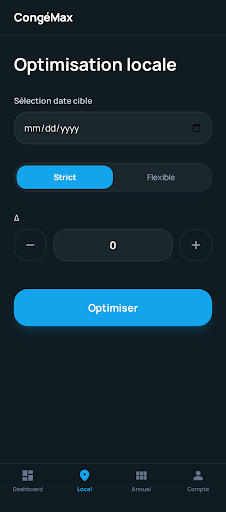
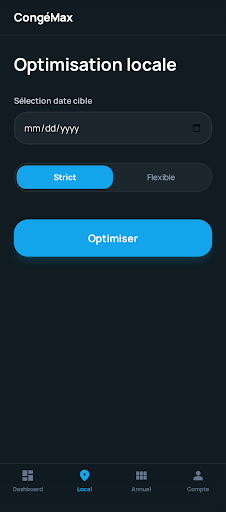
ux: local input fix delta conditional [PLAN:CMX-M-009-B2]

Changed region(s): [[0.0619, 0.4062, 0.9602, 0.5312], [0.0619, 0.5625, 0.9602, 0.6562]]

diff --git a/CODEX/UX/exports/CMX-M-009-B_local-input.html b/CODEX/UX/exports/CMX-M-009-B_local-input.html
@@ -40,6 +40,11 @@
         }
     </style>
 <style>
+        body {
+            min-height: max(884px, 100dvh);
+        }
+    </style>
+<style>
     body {
       min-height: max(884px, 100dvh);
     }
@@ -66,20 +71,6 @@
 <button class="py-2.5 px-4 rounded-lg text-sm font-medium text-slate-500 dark:text-slate-400">
                 Flexible
             </button>
-</div>
-<div class="space-y-2">
-<label class="text-sm font-semibold text-slate-700 dark:text-slate-300">Δ</label>
-<div class="flex items-center gap-3">
-<button class="w-14 h-14 rounded-xl border border-slate-200 dark:border-white/10 flex items-center justify-center text-slate-400">
-<span class="material-symbols-outlined">remove</span>
-</button>
-<div class="flex-1 h-14 bg-white dark:bg-white/5 border border-slate-200 dark:border-white/10 rounded-xl flex items-center justify-center font-bold text-lg">
-                    0
-                </div>
-<button class="w-14 h-14 rounded-xl border border-slate-200 dark:border-white/10 flex items-center justify-center text-slate-400">
-<span class="material-symbols-outlined">add</span>
-</button>
-</div>
 </div>
 <div class="pt-4">
 <button class="w-full h-16 bg-primary text-white rounded-xl font-bold text-lg shadow-lg shadow-primary/20 active:scale-[0.98] transition-all">

diff --git a/CODEX/UX/UX_SKILLS_EVIDENCE.md b/CODEX/UX/UX_SKILLS_EVIDENCE.md
@@ -142,3 +142,24 @@
   - delta block: Δ
   - optimize button: Optimiser
   - bottom nav: Dashboard, Local (actif), Annuel, Compte
+
+## CMX-M-009-B2 — Delta Conditional Fix (Architecture B)
+- screen_id: Screen_09_Local_Input
+- dep: CODEX/UX/DEP/Screen_09_Local_Input.dep.yaml (inchangé)
+- design_spec: CODEX/UX/DEP/Screen_09_Local_Input.design_spec.json
+- gate_report: CODEX/UX/DEP/Screen_09_Local_Input.gate_report.md
+- exports:
+  - CODEX/UX/exports/CMX-M-009-B_local-input.html
+  - CODEX/UX/exports/CMX-M-009-B_local-input.png
+- stitch_stage_1:
+  - project: projects/4250423157287284664
+  - session: 13726037778003081270
+  - output: DESIGN_SPEC JSON ONLY avec `visibility` sur Delta_Block
+- stitch_stage_2:
+  - project: projects/4250423157287284664
+  - session: 14563570868016470286
+  - screen: projects/4250423157287284664/screens/da686720bd854386b5e76998e55d3976
+- corrective_rule:
+  - Delta_Block visible uniquement si mode==Flexible
+  - preuve DESIGN_SPEC: visibility.when=mode + visibility.equals=Flexible
+- gate_verdict: PASS

diff --git a/CODEX/UX/TOKEN_CONFORMANCE_GATE.md b/CODEX/UX/TOKEN_CONFORMANCE_GATE.md
@@ -28,6 +28,11 @@ Un DESIGN\_SPEC est PASS uniquement si :
 
 10\. Aucune propriété JSON supplémentaire.
 
+11\. Pour Screen\_09\_Local\_Input : Delta\_Block MUST be conditional on mode==Flexible.
+Preuve requise dans DESIGN\_SPEC :
+- soit `visibility` explicite sur le composant Delta (`when: mode`, `equals: Flexible`)
+- soit absence du Delta\_Block en mode Strict documentée dans le DESIGN\_SPEC.
+
 
 
 Si un seul critère échoue :

diff --git a/CODEX/UX/DEP/Screen_09_Local_Input.gate_report.md b/CODEX/UX/DEP/Screen_09_Local_Input.gate_report.md
@@ -1,7 +1,7 @@
 # Screen_09_Local_Input.gate_report
 
 VERDICT: PASS
-RAISON UNIQUE: All schema and token-conformance checks passed.
+RAISON UNIQUE: All schema and token-conformance checks passed, including delta conditional rule.
 
 PREUVES:
 - Schema root keys: PASS
@@ -13,3 +13,4 @@ PREUVES:
 - Elevation levels <=2: PASS
 - Interactive aria labels: PASS
 - Additional properties: PASS
+- Delta conditional (mode==Flexible): PASS
